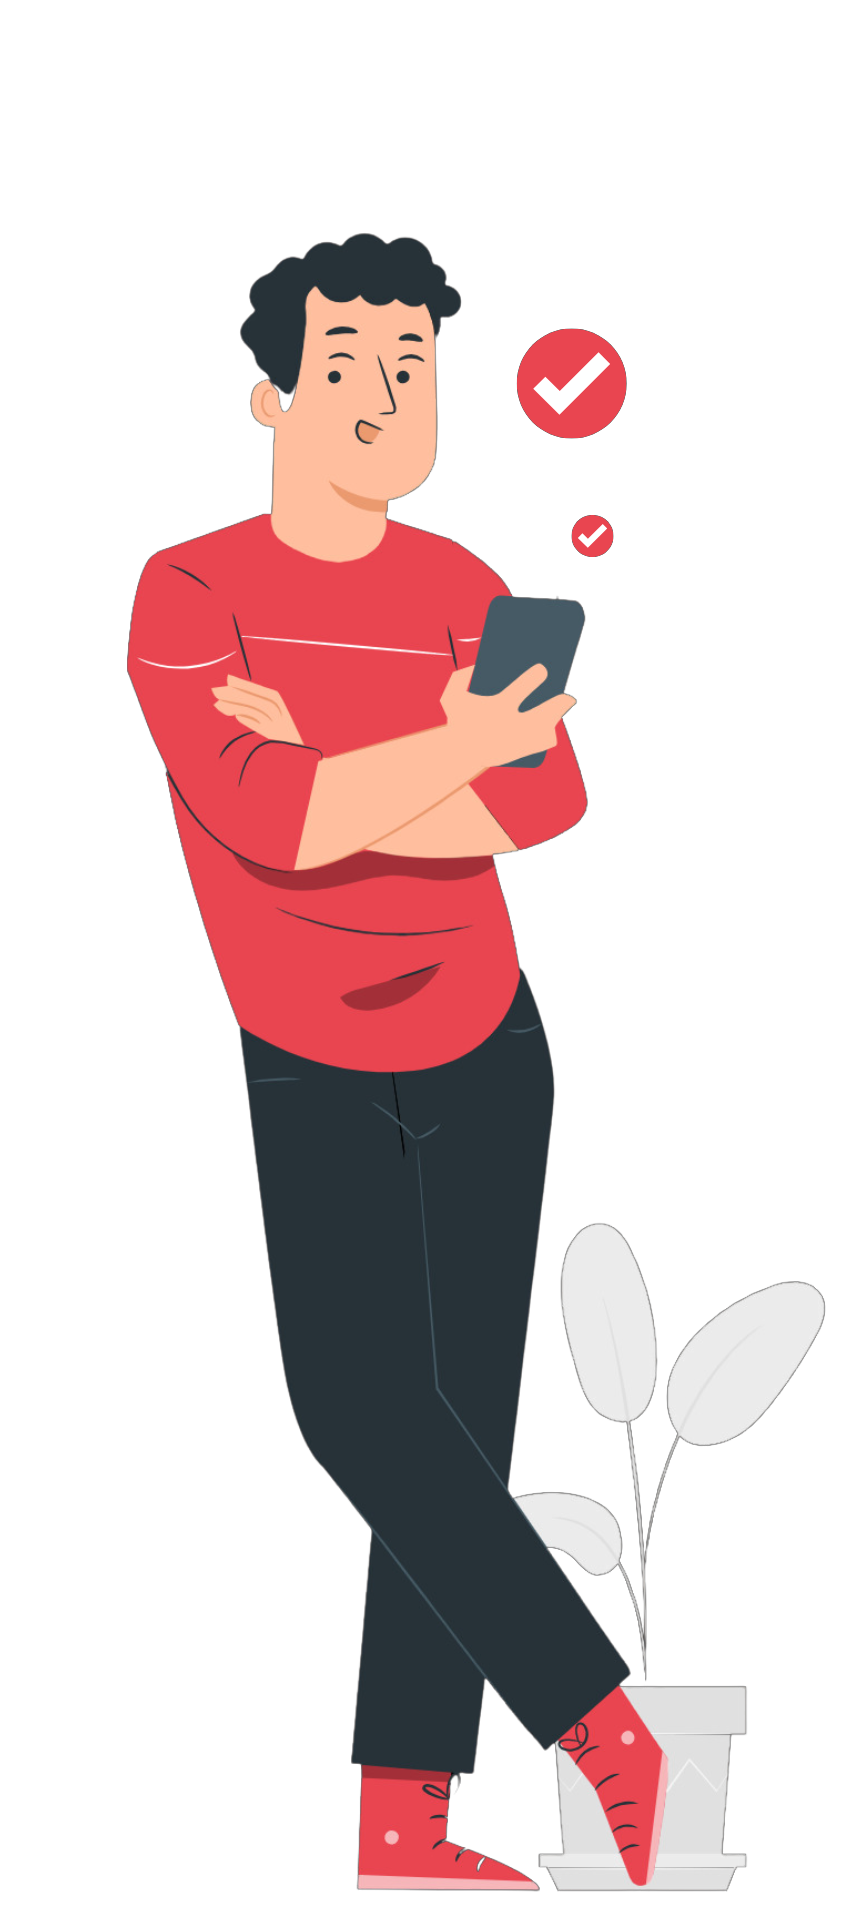
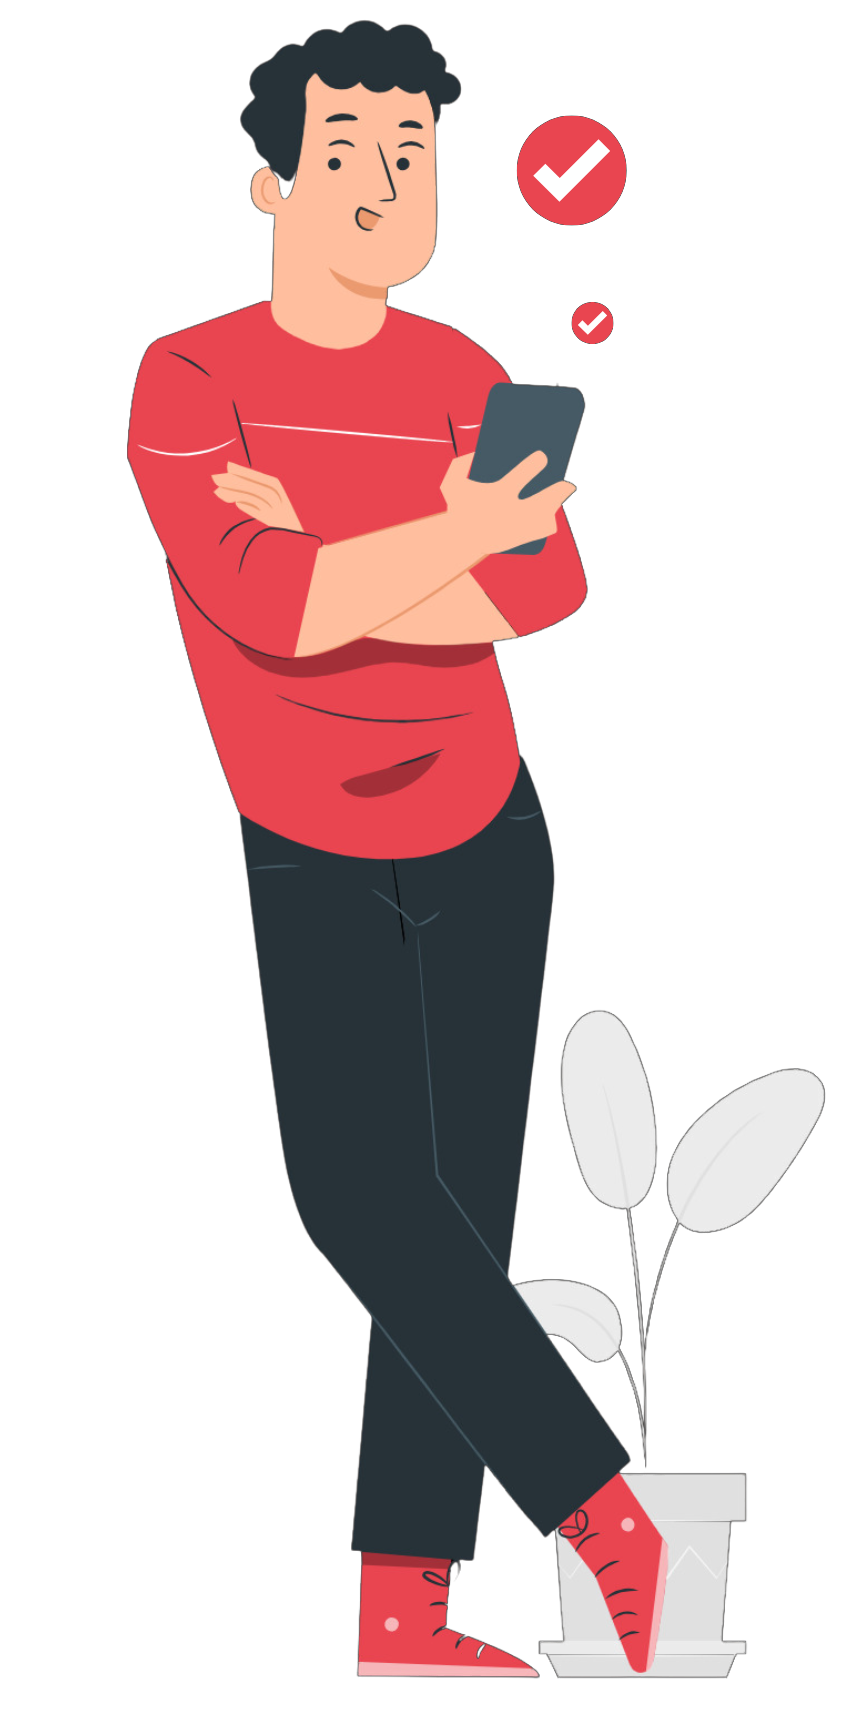
Added responsive design to Home/Landing page

diff --git a/src/components/HomeContainer/HomeContainer.module.css b/src/components/HomeContainer/HomeContainer.module.css
@@ -11,7 +11,7 @@ main.homeContainer{
     justify-content: center;
     align-items: center;
     /* Spacing */
-    padding: 0px 50px;
+    padding: 0px 50px 10px 50px;
 }
 
 a{
@@ -20,10 +20,11 @@ a{
     color: black;
 }
 
+
 .homePanelLeft img{
     /* Sizing */
-    height: 75vh;
-    width: 350px;
+    height: 65vh;
+    width: 400px;
 }
 
 .homePanelCenter{
@@ -33,17 +34,38 @@ a{
     justify-content: center;
     align-items: center;
     /* Sizing */
-    width: 350px;
+    width: 400px;
     /* Font */
     text-align: center;
 }
 
 .homePanelCenter img.toDoLogo{
+    /* Sizing */
     width: 150px;
+}
+
+.homePanelCenter img.jointPanels{
+    /* Display */
+    display: none;
+    /* Sizing */
+    width: 350px;
 }
 
 .homePanelRight img{
     /* Sizing */
-    height: 75vh;
-    width: 350px;
+    height: 65vh;
+    width: 400px;
+}
+
+@media (max-width: 1240px) {
+    .homePanelLeft,
+    .homePanelCenter img.toDoLogo,
+    .homePanelRight{
+        display: none;
+    }
+
+    .homePanelCenter img.jointPanels{
+        display: flex;
+    }
+
 }

diff --git a/src/components/HomeContainer/HomeContainer.jsx b/src/components/HomeContainer/HomeContainer.jsx
@@ -23,6 +23,11 @@ const HomeContainer = () => {
                     src="../../images/to-do.png"
                     alt='App logo'
                 />
+                <img
+                    className={styles.jointPanels}
+                    src="../../images/joint-panels.png"
+                    alt='Man and woman holding a phone'
+                />
                 <h1>To Do App</h1>
                 <h2>Organize, Accomplish, Succeed</h2>
                 <button>
